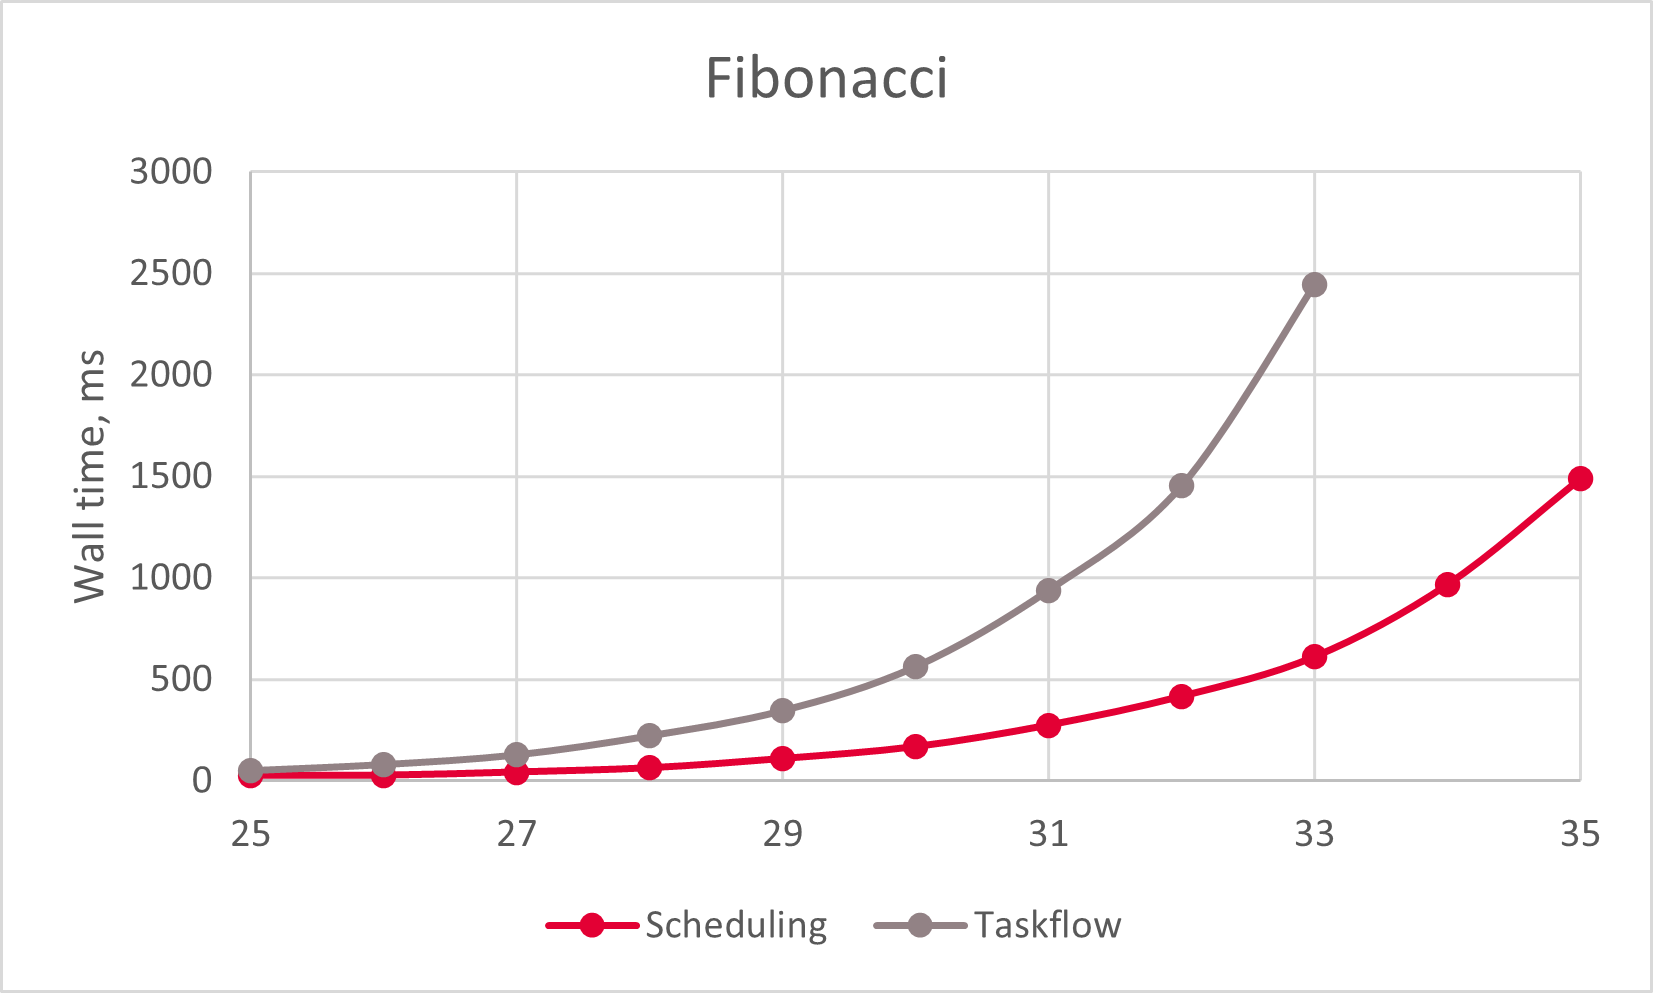
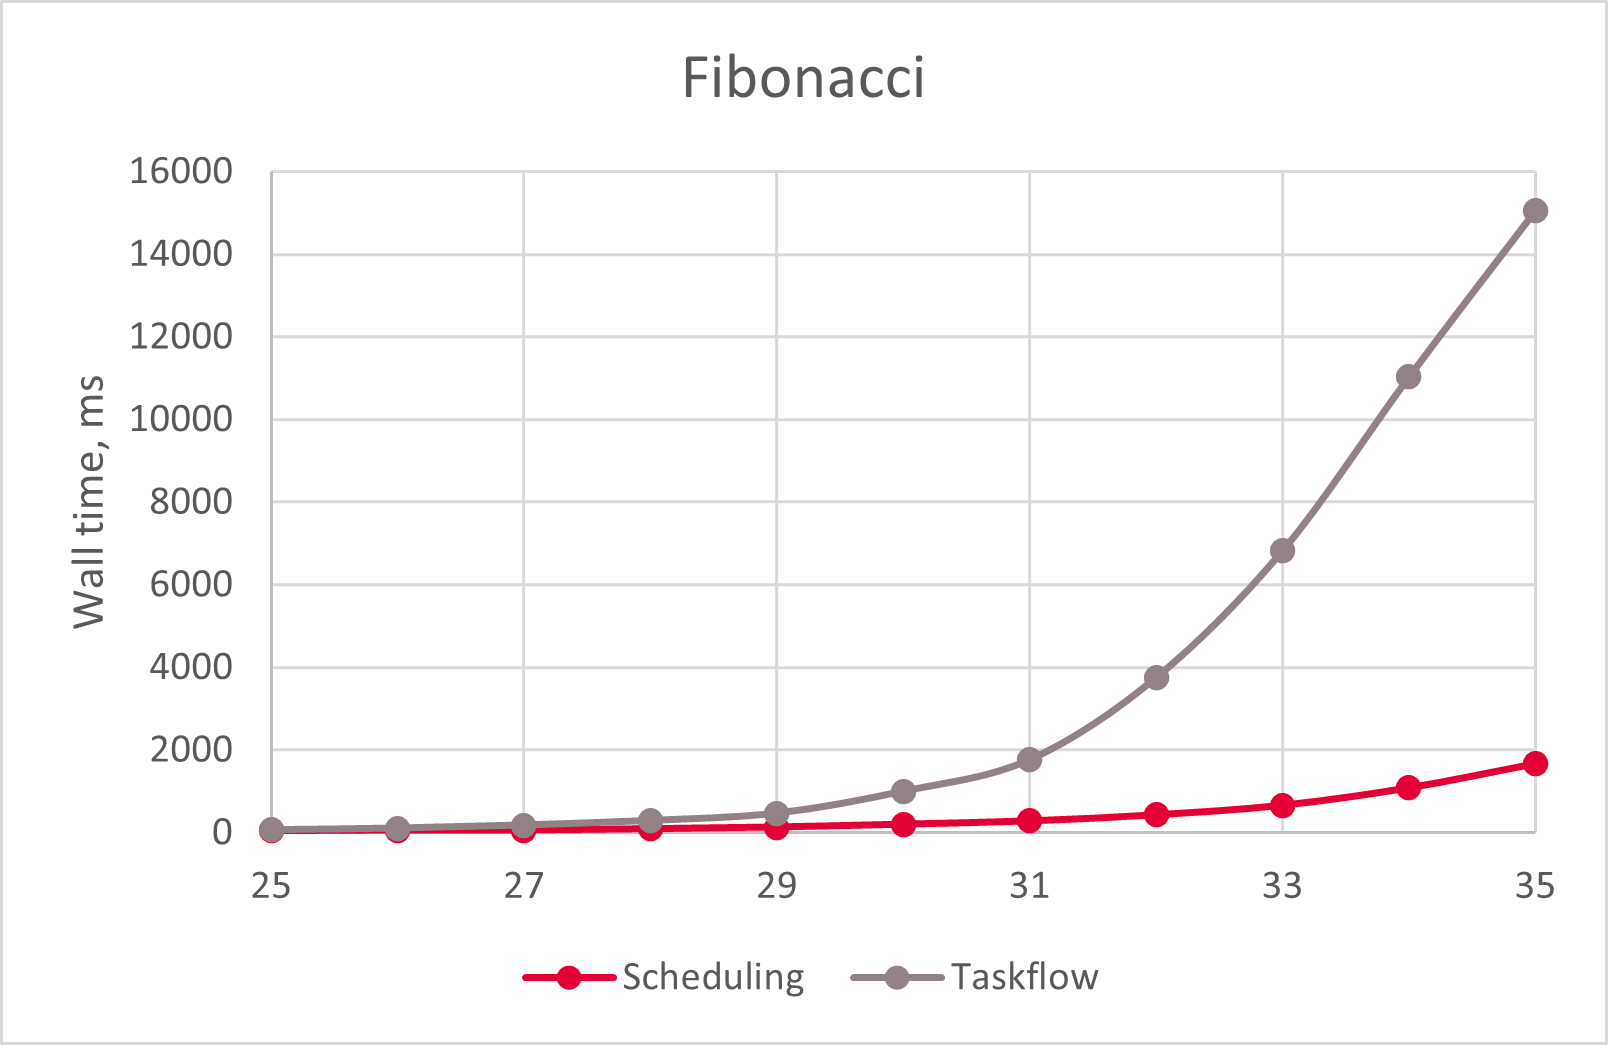
Update benchmark examples
* Update benchmark data in README.md.

diff --git a/benchmarks/taskflow.cpp b/benchmarks/taskflow.cpp
@@ -105,7 +105,7 @@ void Benchmark(benchmark::State& state) {
 
 BENCHMARK(taskflow::benchmarks::fibonacci::Benchmark)
     ->Name("taskflow/fibonacci")
-    ->DenseRange(25, 33)
+    ->DenseRange(25, 35)
     ->Unit(benchmark::kMillisecond);
 
 BENCHMARK(taskflow::benchmarks::linear_chain::Benchmark)
